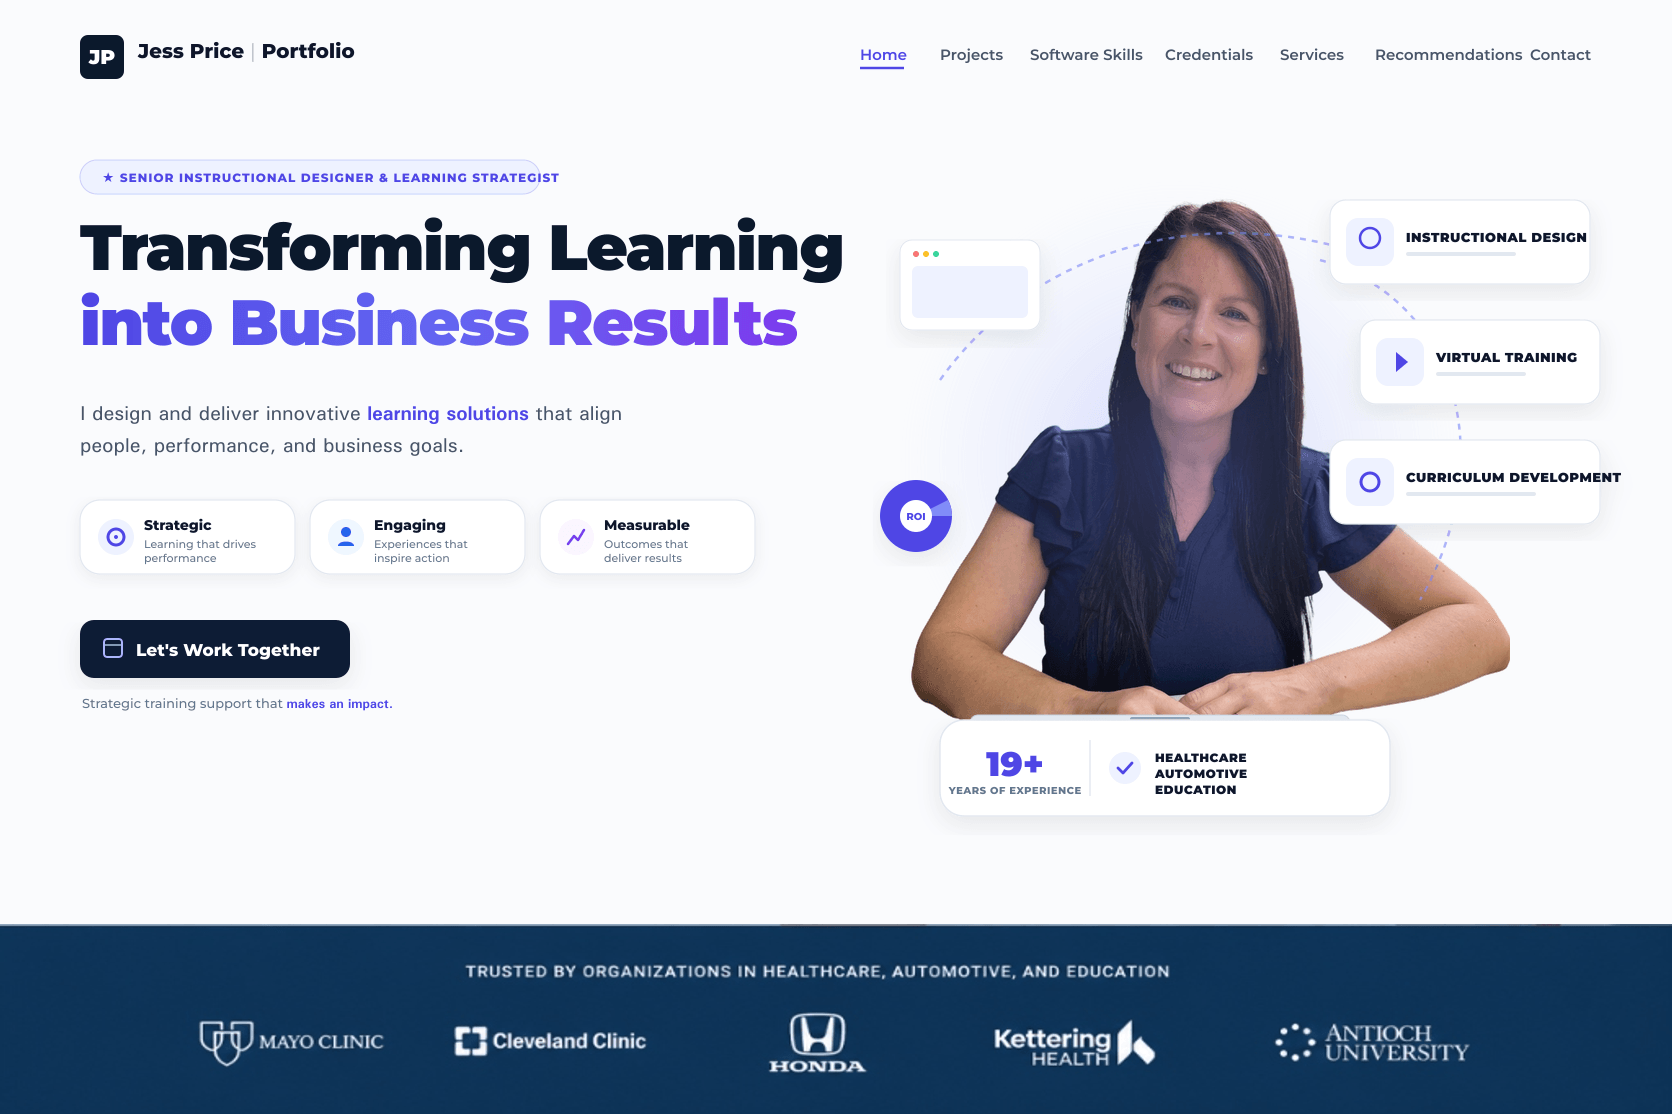
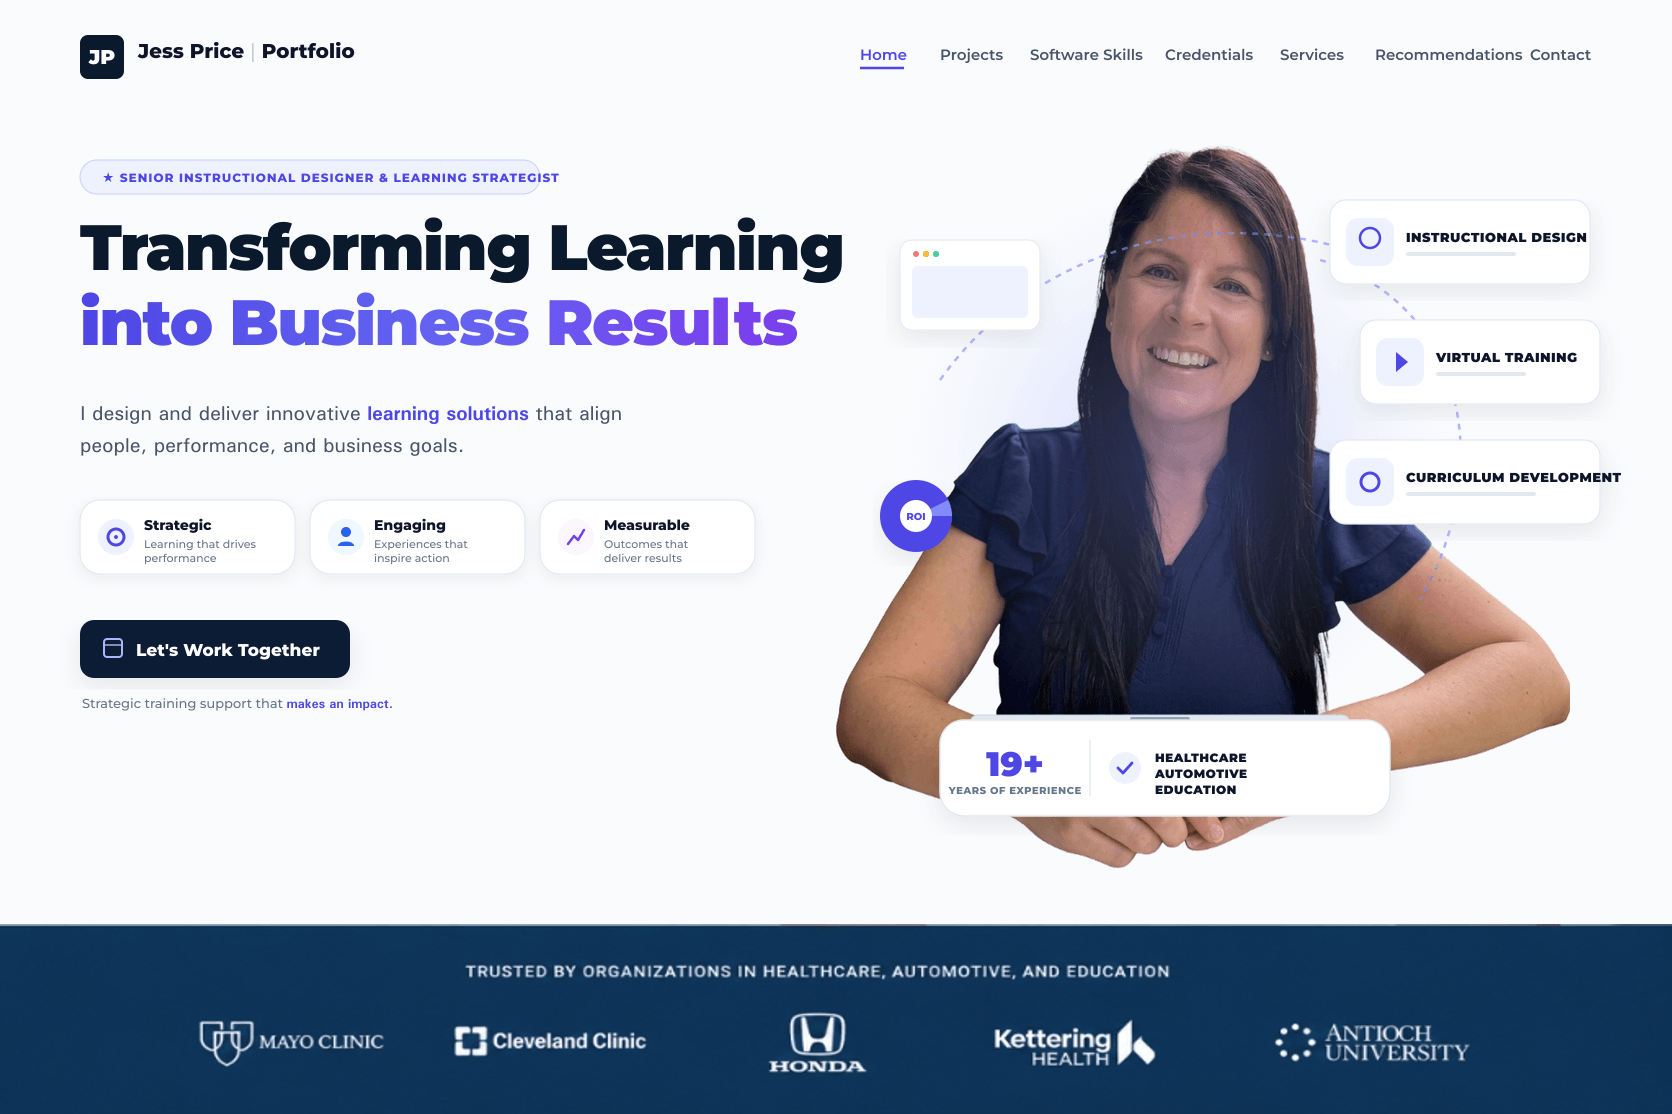
style(jessprice): enlarge hero portrait composition and adjust layout grid

Changed region(s): [[0.4976, 0.1221, 0.9641, 0.7325], [0.5909, 0.7325, 0.7775, 0.7935], [0.7153, 0.5189, 0.7464, 0.5494]]

diff --git a/src/app/jessprice/JessPriceClient.tsx b/src/app/jessprice/JessPriceClient.tsx
@@ -628,10 +628,10 @@ export default function JessPriceClient() {
         <div className="absolute top-1/3 right-10 w-80 h-80 bg-purple-100/50 rounded-full blur-3xl pointer-events-none -z-10" />
 
         <div className="max-w-7xl mx-auto px-4 sm:px-6 lg:px-8">
-          <div className="grid grid-cols-1 lg:grid-cols-12 gap-8 lg:gap-6 items-center">
+          <div className="grid grid-cols-1 lg:grid-cols-12 gap-8 lg:gap-4 items-center">
             
             {/* LEFT COLUMN: HERO CONTENT */}
-            <div className="lg:col-span-6 xl:col-span-7 space-y-6 pt-2 pb-6 lg:pb-12">
+            <div className="lg:col-span-6 xl:col-span-5 space-y-6 pt-2 pb-6 lg:pb-12">
               
               {/* Badge Pill */}
               <div className="inline-flex items-center gap-2 px-3.5 py-1.5 rounded-full bg-indigo-50 border border-indigo-100/90 text-indigo-700 text-xs font-bold tracking-wider uppercase shadow-xs">
@@ -713,13 +713,13 @@ export default function JessPriceClient() {
               </div>
             </div>
 
-            {/* RIGHT COLUMN: HER HERO IMAGE (FEATURING JESS'S AUTHENTIC IMAGE) */}
-            <div className="lg:col-span-6 xl:col-span-5 relative flex items-center justify-center lg:justify-end">
-              <div className="relative w-full max-w-[500px] aspect-[1/1] sm:aspect-[4/3.8] flex items-end justify-center">
+            {/* RIGHT COLUMN: HER HERO IMAGE (ENLARGED & EXECUTIVE PRESENCE) */}
+            <div className="lg:col-span-6 xl:col-span-7 relative flex items-center justify-center lg:justify-end">
+              <div className="relative w-full max-w-[580px] lg:max-w-[660px] xl:max-w-[720px] aspect-[1/1] sm:aspect-[4/3.8] lg:aspect-[4/3.8] flex items-end justify-center">
                 
                 {/* Backdrop Soft Glow & Connecting Paths */}
                 <div className="absolute inset-0 -z-10 flex items-center justify-center">
-                  <div className="w-80 h-80 rounded-full bg-gradient-to-tr from-indigo-200/60 to-purple-200/50 blur-2xl" />
+                  <div className="w-[480px] h-[480px] rounded-full bg-gradient-to-tr from-indigo-200/70 to-purple-200/60 blur-3xl" />
                 </div>
 
                 {/* Curved Connection Lines */}
@@ -743,7 +743,7 @@ export default function JessPriceClient() {
                 </svg>
 
                 {/* Background Widget 1: Mini Browser Preview (Left) */}
-                <div className="absolute top-10 left-2 sm:left-6 z-10 bg-white/95 backdrop-blur-sm rounded-xl border border-slate-200 p-2.5 shadow-lg w-28 sm:w-36 hidden sm:block transform -rotate-3 hover:rotate-0 transition-transform">
+                <div className="absolute top-10 left-2 sm:left-4 z-10 bg-white/95 backdrop-blur-sm rounded-xl border border-slate-200 p-2.5 shadow-lg w-28 sm:w-36 hidden sm:block transform -rotate-3 hover:rotate-0 transition-transform">
                   <div className="flex items-center gap-1 mb-2">
                     <div className="w-1.5 h-1.5 rounded-full bg-rose-400" />
                     <div className="w-1.5 h-1.5 rounded-full bg-amber-400" />
@@ -762,26 +762,26 @@ export default function JessPriceClient() {
                   </div>
                 </div>
 
-                {/* JESS PRICE'S HERO PORTRAIT (HER IMAGE) */}
-                <div className="relative w-full h-[94%] flex items-end justify-center">
-                  <div className="relative w-[340px] sm:w-[380px] h-[370px] sm:h-[410px]">
+                {/* JESS PRICE'S HERO PORTRAIT (HER IMAGE - ENLARGED) */}
+                <div className="relative w-full h-[98%] flex items-end justify-center">
+                  <div className="relative w-[400px] sm:w-[480px] lg:w-[540px] xl:w-[600px] h-[440px] sm:h-[510px] lg:h-[560px] xl:h-[620px]">
                     <Image
                       src="/assets/jessprice/jess-portrait-transparent.png"
                       alt="Jess Price - Senior Instructional Designer & Curriculum Developer"
                       fill
-                      className="object-contain object-bottom drop-shadow-xl"
+                      className="object-contain object-bottom drop-shadow-2xl scale-105 transform origin-bottom"
                       priority
                     />
 
                     {/* Sleek Laptop Workstation Base */}
-                    <div className="absolute -bottom-2 left-1/2 transform -translate-x-1/2 w-[240px] sm:w-[280px] h-6 bg-gradient-to-t from-slate-200 to-slate-100 rounded-t-xl border-t border-x border-slate-300 shadow-md flex items-center justify-center">
-                      <div className="w-16 h-1 bg-slate-300 rounded-full" />
+                    <div className="absolute -bottom-2 left-1/2 transform -translate-x-1/2 w-[320px] sm:w-[380px] lg:w-[440px] h-7 bg-gradient-to-t from-slate-200 to-slate-100 rounded-t-xl border-t border-x border-slate-300 shadow-md flex items-center justify-center">
+                      <div className="w-20 h-1 bg-slate-300 rounded-full" />
                     </div>
                   </div>
                 </div>
 
                 {/* Floating Skill Badge 1: Top Right */}
-                <div className="absolute top-6 right-0 sm:right-1 z-20 bg-white/95 backdrop-blur-md border border-slate-200 rounded-xl p-2.5 shadow-md flex items-center gap-2.5 max-w-[195px] hover:scale-105 transition-transform">
+                <div className="absolute top-2 sm:top-4 right-0 lg:-right-4 z-20 bg-white/95 backdrop-blur-md border border-slate-200 rounded-xl p-2.5 shadow-md flex items-center gap-2.5 max-w-[205px] hover:scale-105 transition-transform">
                   <div className="w-8 h-8 rounded-lg bg-indigo-50 text-indigo-600 flex items-center justify-center shrink-0">
                     <Lightbulb className="w-4 h-4" />
                   </div>
@@ -794,7 +794,7 @@ export default function JessPriceClient() {
                 </div>
 
                 {/* Floating Skill Badge 2: Mid Right */}
-                <div className="absolute top-28 right-0 sm:-right-2 z-20 bg-white/95 backdrop-blur-md border border-slate-200 rounded-xl p-2.5 shadow-md flex items-center gap-2.5 max-w-[185px] hover:scale-105 transition-transform">
+                <div className="absolute top-28 sm:top-32 right-0 lg:-right-6 z-20 bg-white/95 backdrop-blur-md border border-slate-200 rounded-xl p-2.5 shadow-md flex items-center gap-2.5 max-w-[195px] hover:scale-105 transition-transform">
                   <div className="w-8 h-8 rounded-lg bg-indigo-50 text-indigo-600 flex items-center justify-center shrink-0">
                     <Play className="w-4 h-4 fill-indigo-600" />
                   </div>
@@ -807,7 +807,7 @@ export default function JessPriceClient() {
                 </div>
 
                 {/* Floating Skill Badge 3: Lower Right */}
-                <div className="absolute top-52 right-2 sm:right-0 z-20 bg-white/95 backdrop-blur-md border border-slate-200 rounded-xl p-2.5 shadow-md flex items-center gap-2.5 max-w-[195px] hover:scale-105 transition-transform">
+                <div className="absolute top-56 sm:top-60 right-2 lg:-right-2 z-20 bg-white/95 backdrop-blur-md border border-slate-200 rounded-xl p-2.5 shadow-md flex items-center gap-2.5 max-w-[205px] hover:scale-105 transition-transform">
                   <div className="w-8 h-8 rounded-lg bg-indigo-50 text-indigo-600 flex items-center justify-center shrink-0">
                     <Settings className="w-4 h-4" />
                   </div>
@@ -820,9 +820,9 @@ export default function JessPriceClient() {
                 </div>
 
                 {/* Laptop Front Highlight Card: 19+ Years of Experience */}
-                <div className="absolute bottom-1 left-1/2 transform -translate-x-1/2 z-20 bg-white/95 backdrop-blur-md border border-slate-200 rounded-2xl px-5 py-3 shadow-xl flex items-center gap-4 whitespace-nowrap">
-                  <div className="text-center pr-3 border-r border-slate-200">
-                    <div className="text-2xl font-black text-indigo-600 leading-none">19+</div>
+                <div className="absolute bottom-1 left-1/2 transform -translate-x-1/2 z-20 bg-white/95 backdrop-blur-md border border-slate-200 rounded-2xl px-6 py-3.5 shadow-xl flex items-center gap-4 whitespace-nowrap">
+                  <div className="text-center pr-3.5 border-r border-slate-200">
+                    <div className="text-2xl sm:text-3xl font-black text-indigo-600 leading-none">19+</div>
                     <div className="text-[10px] font-bold uppercase tracking-wider text-slate-500 mt-0.5">
                       Years of Exp.
                     </div>
@@ -831,7 +831,7 @@ export default function JessPriceClient() {
                     <div className="w-6 h-6 rounded-full bg-indigo-50 text-indigo-600 flex items-center justify-center">
                       <Check className="w-3.5 h-3.5 stroke-[3]" />
                     </div>
-                    <div className="text-[11px] font-bold text-slate-800 tracking-wide uppercase">
+                    <div className="text-[11px] sm:text-xs font-bold text-slate-800 tracking-wide uppercase">
                       Healthcare • Automotive • Education
                     </div>
                   </div>
